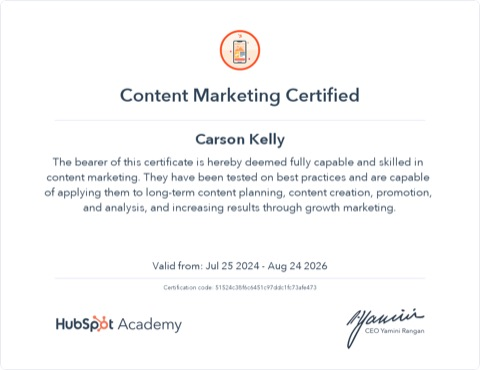
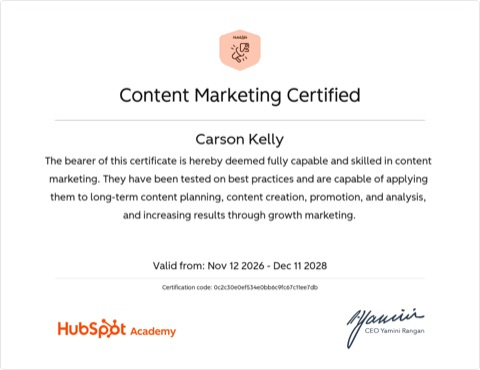
About and resume: renewed HubSpot certificate, Claude Academy badge

diff --git a/about/index.html b/about/index.html
@@ -8,7 +8,7 @@
 <link rel="apple-touch-icon" href="../apple-touch-icon.png">
 <meta name="description" content="Carson Kelly, Associate Marketing Communications Manager at XiFin; Communication and Dance graduate of UMass Amherst.">
 <link rel="preload" href="../fonts/gloock-latin.woff2" as="font" type="font/woff2" crossorigin>
-<link rel="stylesheet" href="../site.css?v=1c467aed">
+<link rel="stylesheet" href="../site.css?v=aafde7e9">
 <script src="../play.js" defer></script>
 </head>
 <body id="top">
@@ -18,13 +18,13 @@
 <header><h1>About</h1></header>
 <figure class="portrait"><img src="media/headshot.jpg" width="1264" height="1636" srcset="media/headshot.w480.jpg 480w, media/headshot.w720.jpg 720w, media/headshot.w960.jpg 960w, media/headshot.jpg 1264w" sizes="(min-width: 1100px) 1000px, 100vw" alt="Carson Kelly"></figure>
 <div class="body"><p>Carson Kelly (she/her) is a cum laude graduate of the University of Massachusetts Amherst, where she earned dual Bachelor of Arts degrees in Communication and Dance. She currently serves as Associate Marketing Communications Manager at XiFin, leading integrated marketing communications across content, digital channels, webinars, and events to strengthen brand visibility and thought leadership.</p>
-<p>With experience spanning social media strategy, event marketing, and international communications work in Italy, Carson brings a strategic and creative approach to building high-impact marketing programs. She is certified in Content Marketing through HubSpot Academy, has completed its AI for Marketers course, and holds dual citizenship in the United States and Ireland.</p>
+<p>With experience spanning social media strategy, event marketing, and international communications work in Italy, Carson brings a strategic and creative approach to building high-impact marketing programs. She is certified in Content Marketing through HubSpot Academy, has completed HubSpot’s AI for Marketers course and Claude Academy’s Building Effective Human-Agent Teams course, and holds dual citizenship in the United States and Ireland.</p>
 <h2>Education</h2>
 <p><strong>University of Massachusetts Amherst</strong>, graduated May 2024</p>
 <ul><li>Bachelor of Arts in Communication, College of Social and Behavioral Sciences</li><li>Bachelor of Arts in Dance, College of Humanities and Fine Arts</li><li>Cum laude, cumulative GPA 3.87, Dean’s List all semesters</li></ul>
 <h2>Certifications and coursework</h2>
-<ul><li>HubSpot Academy: Content Marketing Certification</li><li>HubSpot Academy: AI for Marketers Course</li><li>Relevant Coursework: Practical Reasoning, Film and TV Production Concepts, Social Impact of Mass Media</li></ul>
-<figure><img src="media/hubspot-content-marketing-certificate.png" width="1140" height="880" srcset="media/hubspot-content-marketing-certificate.w480.jpg 480w, media/hubspot-content-marketing-certificate.w720.jpg 720w, media/hubspot-content-marketing-certificate.w960.jpg 960w, media/hubspot-content-marketing-certificate.png 1140w" sizes="(min-width: 1100px) 1000px, 100vw" alt="HubSpot Academy Content Marketing certificate" loading="lazy"></figure><p class="more"><a href="../resume/">Experience and education: see my resume</a></p></div>
+<ul><li>HubSpot Academy: Content Marketing Certification (renewed November 2026, valid through December 2028)</li><li>HubSpot Academy: AI for Marketers Course</li><li>Claude Academy: Building Effective Human-Agent Teams (beta), course completion badge, November 2026 (<a href="https://academy.claude.com/verify/1a788e582f52652a912bfb5b40bdceee">verify</a>)</li><li>Relevant Coursework: Practical Reasoning, Film and TV Production Concepts, Social Impact of Mass Media</li></ul>
+<div class="gallery"><figure><img sizes="(min-width: 1100px) 20vw, (min-width: 600px) 33vw, 100vw" src="media/hubspot-content-marketing-certificate.png" width="1600" height="1235" srcset="media/hubspot-content-marketing-certificate.w480.jpg 480w, media/hubspot-content-marketing-certificate.w720.jpg 720w, media/hubspot-content-marketing-certificate.w960.jpg 960w, media/hubspot-content-marketing-certificate.png 1600w" alt="HubSpot Academy Content Marketing certificate, valid November 2026 to December 2028" loading="lazy"></figure><figure><img sizes="(min-width: 1100px) 20vw, (min-width: 600px) 33vw, 100vw" src="media/claude-academy-human-agent-teams-badge.png" width="1600" height="1020" srcset="media/claude-academy-human-agent-teams-badge.w480.jpg 480w, media/claude-academy-human-agent-teams-badge.w720.jpg 720w, media/claude-academy-human-agent-teams-badge.w960.jpg 960w, media/claude-academy-human-agent-teams-badge.png 1600w" alt="Claude Academy course completion badge: Building effective human-agent teams (beta), issued November 12, 2026" loading="lazy"></figure></div><p class="more"><a href="../resume/">Experience and education: see my resume</a></p></div>
 </article>
 </main>
 <footer class="foot"><span>Carson Kelly</span><a href="#top">Back to top</a></footer>

diff --git a/resume/index.html b/resume/index.html
@@ -8,7 +8,7 @@
 <link rel="apple-touch-icon" href="../apple-touch-icon.png">
 <meta name="description" content="Carson Kelly: resume">
 <link rel="preload" href="../fonts/gloock-latin.woff2" as="font" type="font/woff2" crossorigin>
-<link rel="stylesheet" href="../site.css?v=1c467aed">
+<link rel="stylesheet" href="../site.css?v=aafde7e9">
 <script src="../play.js" defer></script>
 </head>
 <body id="top">
@@ -37,7 +37,7 @@
 <section class="job"><h3><span class="job-title">University of Massachusetts Amherst</span></h3><p><em>Graduated May 2024</em></p>
 <ul><li>Bachelor of Arts in Communication, College of Social and Behavioral Sciences</li><li>Bachelor of Arts in Dance, College of Humanities and Fine Arts</li><li>Cum Laude Graduate, Cumulative GPA 3.87, Dean’s List All Semesters</li></ul></section>
 <h2>Additional</h2>
-<ul><li>Relevant Coursework: Practical Reasoning, Film and TV Production Concepts, Social Impact of Mass Media</li><li>HubSpot Academy Content Marketing Certification</li><li>HubSpot Academy AI for Marketers Course</li><li>Dual Citizenship in the United States and Ireland</li></ul></div>
+<ul><li>Relevant Coursework: Practical Reasoning, Film and TV Production Concepts, Social Impact of Mass Media</li><li>HubSpot Academy Content Marketing Certification</li><li>HubSpot Academy AI for Marketers Course</li><li>Claude Academy Building Effective Human-Agent Teams Course</li><li>Dual Citizenship in the United States and Ireland</li></ul></div>
 </article>
 </main>
 <footer class="foot"><span>Carson Kelly</span><a href="#top">Back to top</a></footer>

diff --git a/index.html b/index.html
@@ -20,7 +20,7 @@
 <meta name="theme-color" content="#0B0B0B">
 <link rel="preload" href="fonts/gloock-latin.woff2" as="font" type="font/woff2" crossorigin>
 <link rel="preload" href="fonts/bricolage-grotesque-latin.woff2" as="font" type="font/woff2" crossorigin>
-<link rel="stylesheet" href="site.css?v=1c467aed">
+<link rel="stylesheet" href="site.css?v=aafde7e9">
 </head>
 <body id="top" class="home-page">
 <header class="masthead"><nav class="site-nav"><a href="index.html" aria-current="page">Carson Kelly</a><a href="experience/">Experience</a><a href="dance/">Dance</a><a href="about/">About</a><a href="resume/">Resume</a><a href="https://www.linkedin.com/in/carson-kelly-8b4893228/">Contact</a></nav></header>

diff --git a/experience/xifin/index.html b/experience/xifin/index.html
@@ -8,7 +8,7 @@
 <link rel="apple-touch-icon" href="../../apple-touch-icon.png">
 <meta name="description" content="I lead XiFin's integrated marketing communications: content across blogs, newsletters, social media and the Payor Intelligence Hub; webinars, customer events and trade shows; and faster, AI-enabled marketing operations.">
 <link rel="preload" href="../../fonts/gloock-latin.woff2" as="font" type="font/woff2" crossorigin>
-<link rel="stylesheet" href="../../site.css?v=1c467aed">
+<link rel="stylesheet" href="../../site.css?v=aafde7e9">
 <script src="../../play.js" defer></script>
 </head>
 <body id="top">

diff --git a/experience/maison-il-conservatorio/index.html b/experience/maison-il-conservatorio/index.html
@@ -8,7 +8,7 @@
 <link rel="apple-touch-icon" href="../../apple-touch-icon.png">
 <meta name="description" content="During my time in Sorrento, I served as the creative lead for Maison Il Conservatorio’s social channels. My work focused on capturing the intersection of luxury hospitality and authentic Italian culture.">
 <link rel="preload" href="../../fonts/gloock-latin.woff2" as="font" type="font/woff2" crossorigin>
-<link rel="stylesheet" href="../../site.css?v=1c467aed">
+<link rel="stylesheet" href="../../site.css?v=aafde7e9">
 <script src="../../play.js" defer></script>
 </head>
 <body id="top">

diff --git a/experience/umass-social-media/index.html b/experience/umass-social-media/index.html
@@ -8,7 +8,7 @@
 <link rel="apple-touch-icon" href="../../apple-touch-icon.png">
 <meta name="description" content="I developed and executed social-first content strategies for the University of Massachusetts Amherst, focusing on high-impact video to drive student engagement and brand awareness.">
 <link rel="preload" href="../../fonts/gloock-latin.woff2" as="font" type="font/woff2" crossorigin>
-<link rel="stylesheet" href="../../site.css?v=1c467aed">
+<link rel="stylesheet" href="../../site.css?v=aafde7e9">
 <script src="../../play.js" defer></script>
 </head>
 <body id="top">

diff --git a/experience/index.html b/experience/index.html
@@ -8,7 +8,7 @@
 <link rel="apple-touch-icon" href="../apple-touch-icon.png">
 <meta name="description" content="Carson Kelly's experience in marketing and communications, across healthcare technology, luxury hospitality, higher education and language-learning technology.">
 <link rel="preload" href="../fonts/gloock-latin.woff2" as="font" type="font/woff2" crossorigin>
-<link rel="stylesheet" href="../site.css?v=1c467aed">
+<link rel="stylesheet" href="../site.css?v=aafde7e9">
 <script src="../play.js" defer></script>
 </head>
 <body id="top">

diff --git a/dance/teaching/index.html b/dance/teaching/index.html
@@ -8,7 +8,7 @@
 <link rel="apple-touch-icon" href="../../apple-touch-icon.png">
 <meta name="description" content="I have taught dance since 2016, from assisting at the studio where I trained to teaching tap and jazz to young dancers.">
 <link rel="preload" href="../../fonts/gloock-latin.woff2" as="font" type="font/woff2" crossorigin>
-<link rel="stylesheet" href="../../site.css?v=1c467aed">
+<link rel="stylesheet" href="../../site.css?v=aafde7e9">
 <script src="../../play.js" defer></script>
 </head>
 <body id="top">

diff --git a/site.css b/site.css
@@ -509,3 +509,7 @@ a:focus-visible { outline: 2px solid var(--accent-ink); outline-offset: 3px; }
   .ref-grid.solo .ref-card strong { font-size: 1.4rem; }
   .ref-grid.solo .ref-card .ref-desc { -webkit-line-clamp: 3; }
 }
+
+/* About: the certificates stay inside the text column, shown whole (never cropped). */
+.inner .page-about .gallery { width: auto; max-width: 100%; align-items: start; }
+.page-about .gallery:has(> figure:nth-child(2):last-child) img { aspect-ratio: auto; height: auto; object-fit: contain; }

diff --git a/experience/transparent-language/index.html b/experience/transparent-language/index.html
@@ -8,7 +8,7 @@
 <link rel="apple-touch-icon" href="../../apple-touch-icon.png">
 <meta name="description" content="I supported the development of digital language-learning tools through media sourcing and content optimization.">
 <link rel="preload" href="../../fonts/gloock-latin.woff2" as="font" type="font/woff2" crossorigin>
-<link rel="stylesheet" href="../../site.css?v=1c467aed">
+<link rel="stylesheet" href="../../site.css?v=aafde7e9">
 <script src="../../play.js" defer></script>
 </head>
 <body id="top">

diff --git a/dance/choreography/index.html b/dance/choreography/index.html
@@ -8,7 +8,7 @@
 <link rel="apple-touch-icon" href="../../apple-touch-icon.png">
 <meta name="description" content="My own piece, choreographed in association with the University of Massachusetts Amherst Dance Department.">
 <link rel="preload" href="../../fonts/gloock-latin.woff2" as="font" type="font/woff2" crossorigin>
-<link rel="stylesheet" href="../../site.css?v=1c467aed">
+<link rel="stylesheet" href="../../site.css?v=aafde7e9">
 <script src="../../play.js" defer></script>
 </head>
 <body id="top">

diff --git a/dance/performance/index.html b/dance/performance/index.html
@@ -8,7 +8,7 @@
 <link rel="apple-touch-icon" href="../../apple-touch-icon.png">
 <meta name="description" content="A dancer and principal dancer in collegiate, concert and competitive work.">
 <link rel="preload" href="../../fonts/gloock-latin.woff2" as="font" type="font/woff2" crossorigin>
-<link rel="stylesheet" href="../../site.css?v=1c467aed">
+<link rel="stylesheet" href="../../site.css?v=aafde7e9">
 <script src="../../play.js" defer></script>
 </head>
 <body id="top">
